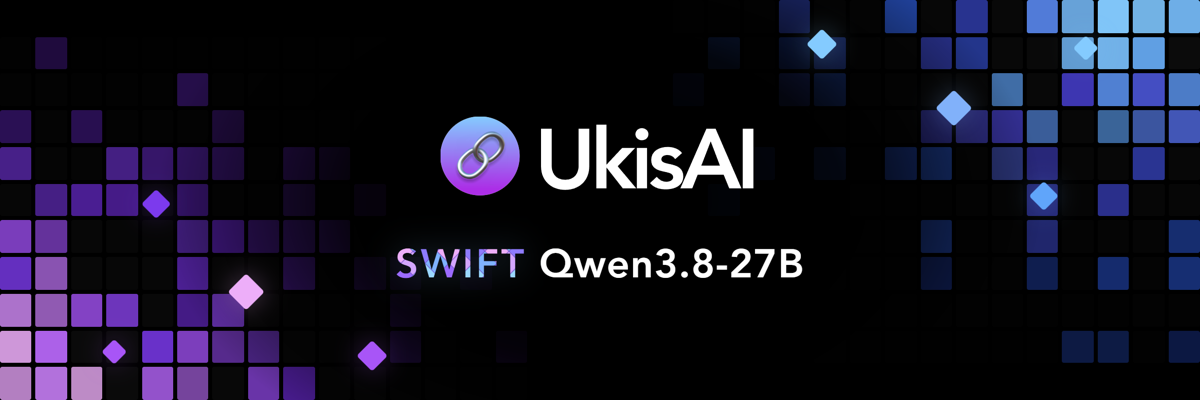
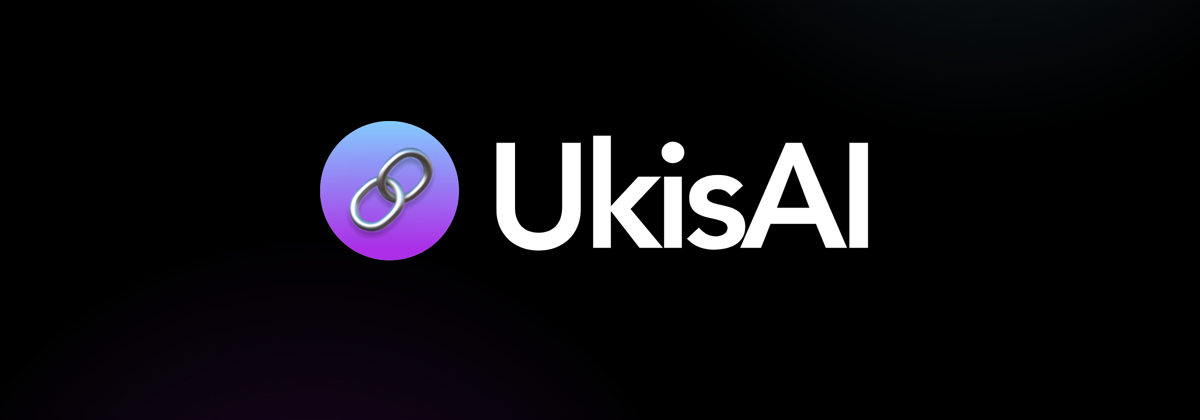
Make the org profile lab-first instead of Swift-first

diff --git a/profile/README.md b/profile/README.md
@@ -3,33 +3,26 @@
   <p>
     <a href="https://ukisai.com"><b>Website</b></a> &nbsp;&bull;&nbsp;
     <a href="https://huggingface.co/ukisai"><b>Hugging Face</b></a> &nbsp;&bull;&nbsp;
-    <a href="https://huggingface.co/spaces/ukisai/Swift-27B"><b>Try Swift</b></a> &nbsp;&bull;&nbsp;
     <a href="https://www.linkedin.com/company/ukisai"><b>LinkedIn</b></a>
   </p>
 </div>
 
 UkisAI is an applied AI lab from Belgrade, Serbia, operating across Europe and the US. We train our own models, ship products used by 20,000+ people, and build production AI for startups, enterprises, and public institutions.
 
-## Swift
+## What we work on
 
-Swift-Qwen3.8-27B is our reasoning-efficient derivative of Qwen3.8-27B. It uses **58.3% fewer thinking tokens** while keeping near-identical performance (**&lt;1% loss**), for a **1.95× speed-up** on several tasks.
-
-| Model | Format |
-|---|---|
-| [Swift-Qwen3.8-27b](https://huggingface.co/ukisai/Swift-Qwen3.8-27b) | BF16 weights |
-| [Swift-Qwen3.8-27B-GGUF](https://huggingface.co/ukisai/Swift-Qwen3.8-27B-GGUF) | GGUF for llama.cpp and compatible runners |
-| [Swift-Qwen3.8-27B-NVFP4](https://huggingface.co/ukisai/Swift-Qwen3.8-27B-NVFP4) | NVFP4/FP8 mixed precision (NVIDIA Model Optimizer) |
-| [Swift-Qwen3.8-27b-int4-AMD](https://huggingface.co/ukisai/Swift-Qwen3.8-27b-int4-AMD) | AMD Quark AWQ INT4 (W4A16) |
-| [Swift-Qwen3.8-27b-BF16-AMD](https://huggingface.co/ukisai/Swift-Qwen3.8-27b-BF16-AMD) | BF16 companion for the AMD Quark release |
-
-Try it in your browser on the [Swift 27B Space](https://huggingface.co/spaces/ukisai/Swift-27B). Every per-sample response behind the model card's benchmark numbers is in [Swift-Qwen3.8-27B-evals](https://github.com/UkisAI/Swift-Qwen3.8-27B-evals).
+- **Models.** We post-train open models to reason faster and cost less to run. Weights, quants, and demos are on [Hugging Face](https://huggingface.co/ukisai).
+- **Developer tools.** Open-source tooling for building AI products and doing model research from the terminal.
+- **Production AI.** Products and custom systems for teams across Europe and the US.
 
 ## Open source
 
-- **[Swift-Qwen3.8-27B-evals](https://github.com/UkisAI/Swift-Qwen3.8-27B-evals)**: raw logs, scores, and configs for all 9 Swift benchmarks
-- **[vibe-ukis](https://github.com/UkisAI/vibe-ukis)**: CLI toolkit for vibe coding AI products, with Claude Code skills, Cursor/Windsurf rules, and MCP docs servers (`pip install vibe-ukis`)
-- **[ukis-research-helper](https://github.com/UkisAI/ukis-research-helper)**: multi-agent research report writer on LlamaIndex, built in an hour with vibe-ukis
+- **[vibe-ukis](https://github.com/UkisAI/vibe-ukis)**: CLI toolkit for vibe coding AI products, with Claude Code skills, Cursor/Windsurf rules, and MCP docs servers
+- **[Swift-Qwen3.8-27B-evals](https://github.com/UkisAI/Swift-Qwen3.8-27B-evals)**: every response, score, and config behind our Swift model's benchmarks
+- **[ukis-research-helper](https://github.com/UkisAI/ukis-research-helper)**: multi-agent research report writer on LlamaIndex
+
+More is on the way. Follow the org to catch new releases first.
 
 ## Work with us
 
-Swift is free for individuals and organizations under US$1M in annual revenue. For a Swift Enterprise License or custom model work, [get in touch](https://ukisai.com/contact).
+Custom models, licensing, and production AI: [ukisai.com/contact](https://ukisai.com/contact).
